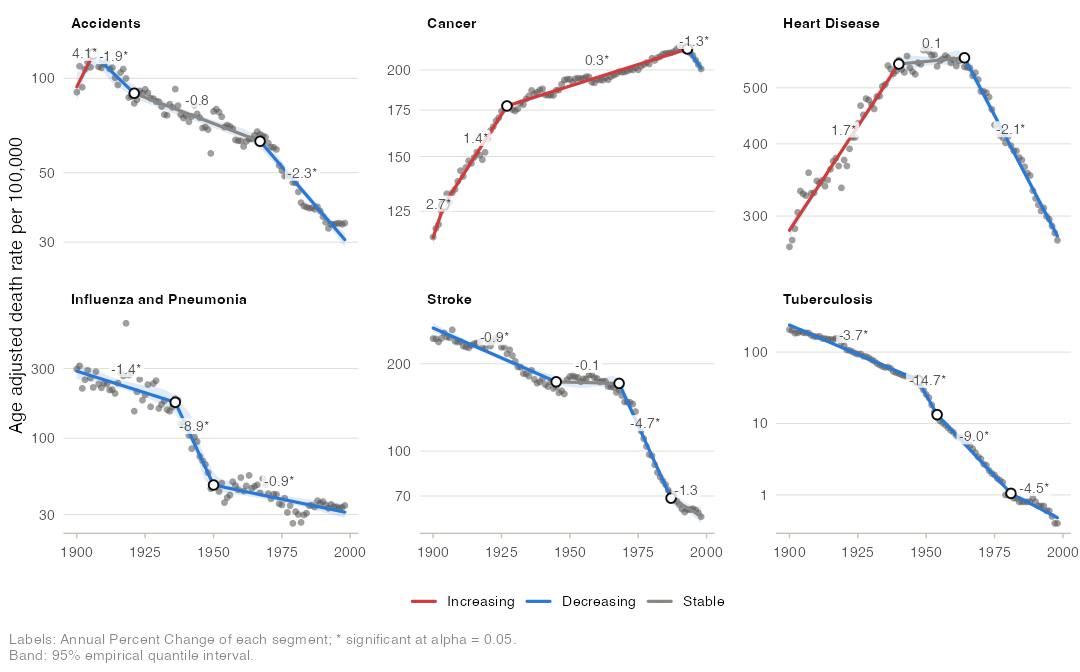
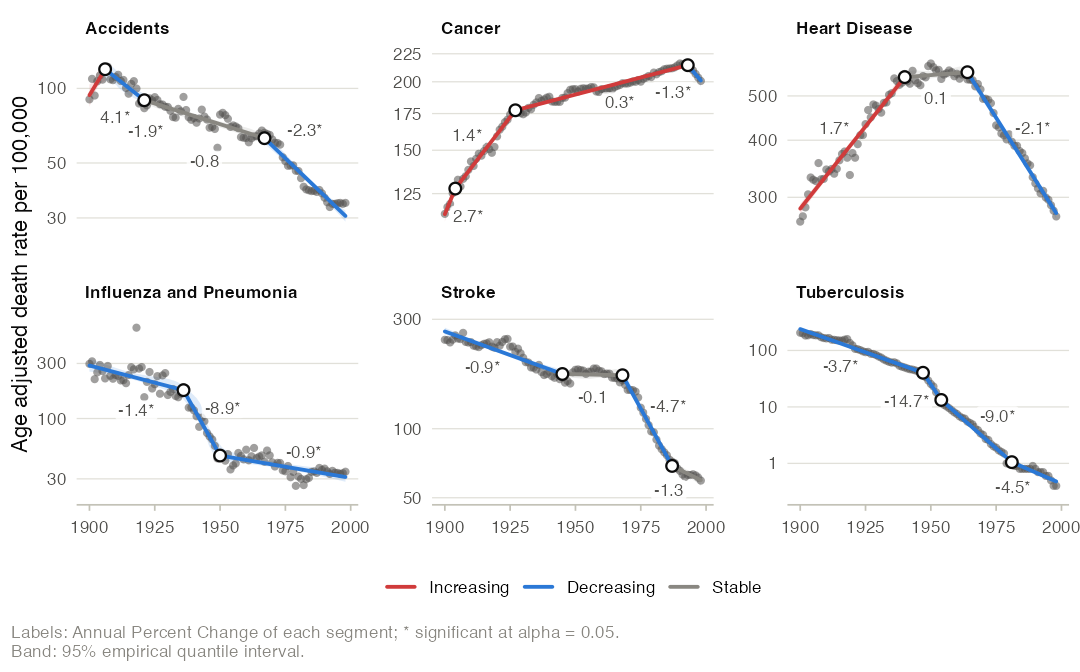
Keep segment labels clear of the data and tidy the published-analysis notes
Segment labels now treat the observed points and their error bars as
obstacles, include the error bars in the panel range, keep a small margin
from every mark and are anchored at the edge facing the curve, so a label
drawn taller than estimated grows away from the curve rather than onto it.
The README figure is regenerated with the new placement.

The published-analysis vignette keeps the comparison table without further
commentary, and NEWS describes the capabilities of the first release.

diff --git a/README.md b/README.md
@@ -123,10 +123,9 @@ independent computations:
   cells inconsistent with their neighbors at the second decimal (each
   listed in the test); and the selections of its permutation test;
 - the prepregnancy BMI analysis of Khademioore et al. (2026, Table 4): the
-  BIC values, the joinpoint, the slopes, the segment p values and the slope
-  change with its p value; the joinpoint interval is reproduced by the
-  conservative variant of the parametric interval, and the slope intervals
-  are not (they imply more degrees of freedom than the p values);
+  BIC values, the joinpoint and its interval (with
+  `tau_interval = "literal"`), the slopes, the segment p values and the
+  slope change with its p value;
 - brute force maximum likelihood for Poisson and binomial fits, fine grids
   for continuous joinpoints, and `lm()` for covariate adjustment.
 

diff --git a/NEWS.md b/NEWS.md
@@ -1,7 +1,5 @@
 # joinpoint 0.1.0
 
-First version.
-
 ## Models
 
 * `joinpoint()` fits joinpoint regression models to one or more series
@@ -45,9 +43,10 @@ First version.
   `coef()`, `vcov()`, `fitted()`, `residuals()`, `predict()` and
   `as.data.frame()` methods, and `jp_export()` for delimited text files.
 * `ggplot2` graphics: `autoplot()` trend figures with segment labels placed to
-  avoid each other and the curves, `plot_apc()`, `plot_aapc()`,
-  `plot_models()`, `plot_selection()`, `plot_residuals()`, comparison plots,
-  `theme_joinpoint()` and color scales.
+  avoid each other, the curves, the points and their error bars;
+  `plot_apc()`, `plot_aapc()`, `plot_models()`, `plot_selection()`,
+  `plot_residuals()`, comparison plots, `theme_joinpoint()` and color
+  scales.
 
 ## Data and documentation
 
